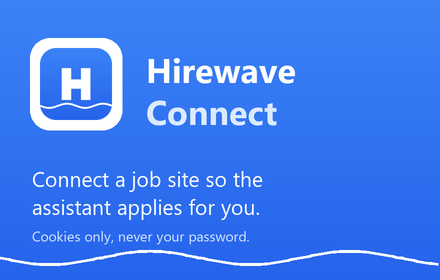
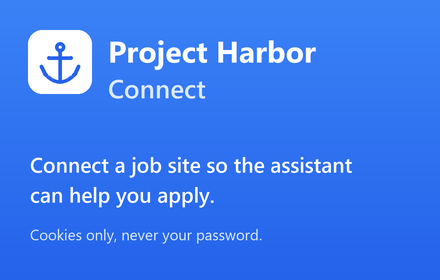
Rebrand all imagery to Project Harbor (drop the Hirewave "H")
Every visual asset leaked the real brand. Replaced with the anchor mark (accent
#2563eb):

- extension/icons/icon{16,32,48,128}.png: were the Hirewave "H"; now the anchor
  mark (this is also the Chrome Web Store icon). Rebuilt the 1.1.0 zip.
- extension/store-assets/promo-440x280.png: was "Hirewave Connect"; now "Project
  Harbor Connect".
- extension/store-assets/screenshot-1280x800.png: was full of "Hirewave" + the
  old pairing-code/"apply for you" flow; regenerated as Project Harbor, code-free
  connect, "help you apply".
- brand/: new folder with the Project Harbor website logo + mark (SVG + PNG
  favicon/app-icon sizes) to replace the Hirewave logo/favicon in the Readdy app,
  plus README.md mapping each asset to where it's used (incl. the Chrome Web Store
  upload fields).

diff --git a/brand/README.md b/brand/README.md
@@ -1,0 +1,35 @@
+# Project Harbor — brand assets
+
+All artwork uses the anchor mark + accent blue `#2563eb`. Two groups: website
+brand (for the Readdy app) and Chrome Web Store listing images (live under
+`extension/`).
+
+## Website brand (use in the Readdy app)
+
+| File | Use |
+|---|---|
+| `project-harbor-logo.svg` | Header/nav logo (scalable, transparent). Preferred. |
+| `project-harbor-logo-1072x256.png` | Header logo, raster @ high-res (transparent). |
+| `project-harbor-logo-536x128.png` | Header logo, raster @ 1x (transparent). |
+| `project-harbor-mark.svg` | Square app/badge mark (scalable). |
+| `project-harbor-mark-512.png` | PWA / web-app manifest icon. |
+| `project-harbor-mark-180.png` | Apple touch icon. |
+| `project-harbor-mark-48.png` | Spare mid-size icon. |
+| `project-harbor-mark-32.png` | Favicon. |
+| `project-harbor-mark-16.png` | Favicon (small). |
+
+These replace the old Hirewave "H" logo/favicon in Readdy.
+
+## Chrome Web Store listing images (the "image upload" fields)
+
+These live with the extension and are already Project Harbor-branded:
+
+| Store field | File | Notes |
+|---|---|---|
+| Store icon (128x128) | `extension/icons/icon128.png` | Comes from the packaged manifest icon; now the anchor mark (no more "H"). |
+| Screenshot (1280x800, >=1 required) | `extension/store-assets/screenshot-1280x800.png` | Project Harbor, code-free connect flow. |
+| Small promo tile (440x280, optional) | `extension/store-assets/promo-440x280.png` | "Project Harbor Connect". |
+| Marquee promo tile (1400x560, optional) | _(none)_ | Not required; generate later if desired. |
+
+The packaged extension icons (`extension/icons/icon{16,32,48,128}.png`) are the
+anchor mark and ship inside `extension/dist/project-harbor-connect-1.1.0.zip`.
